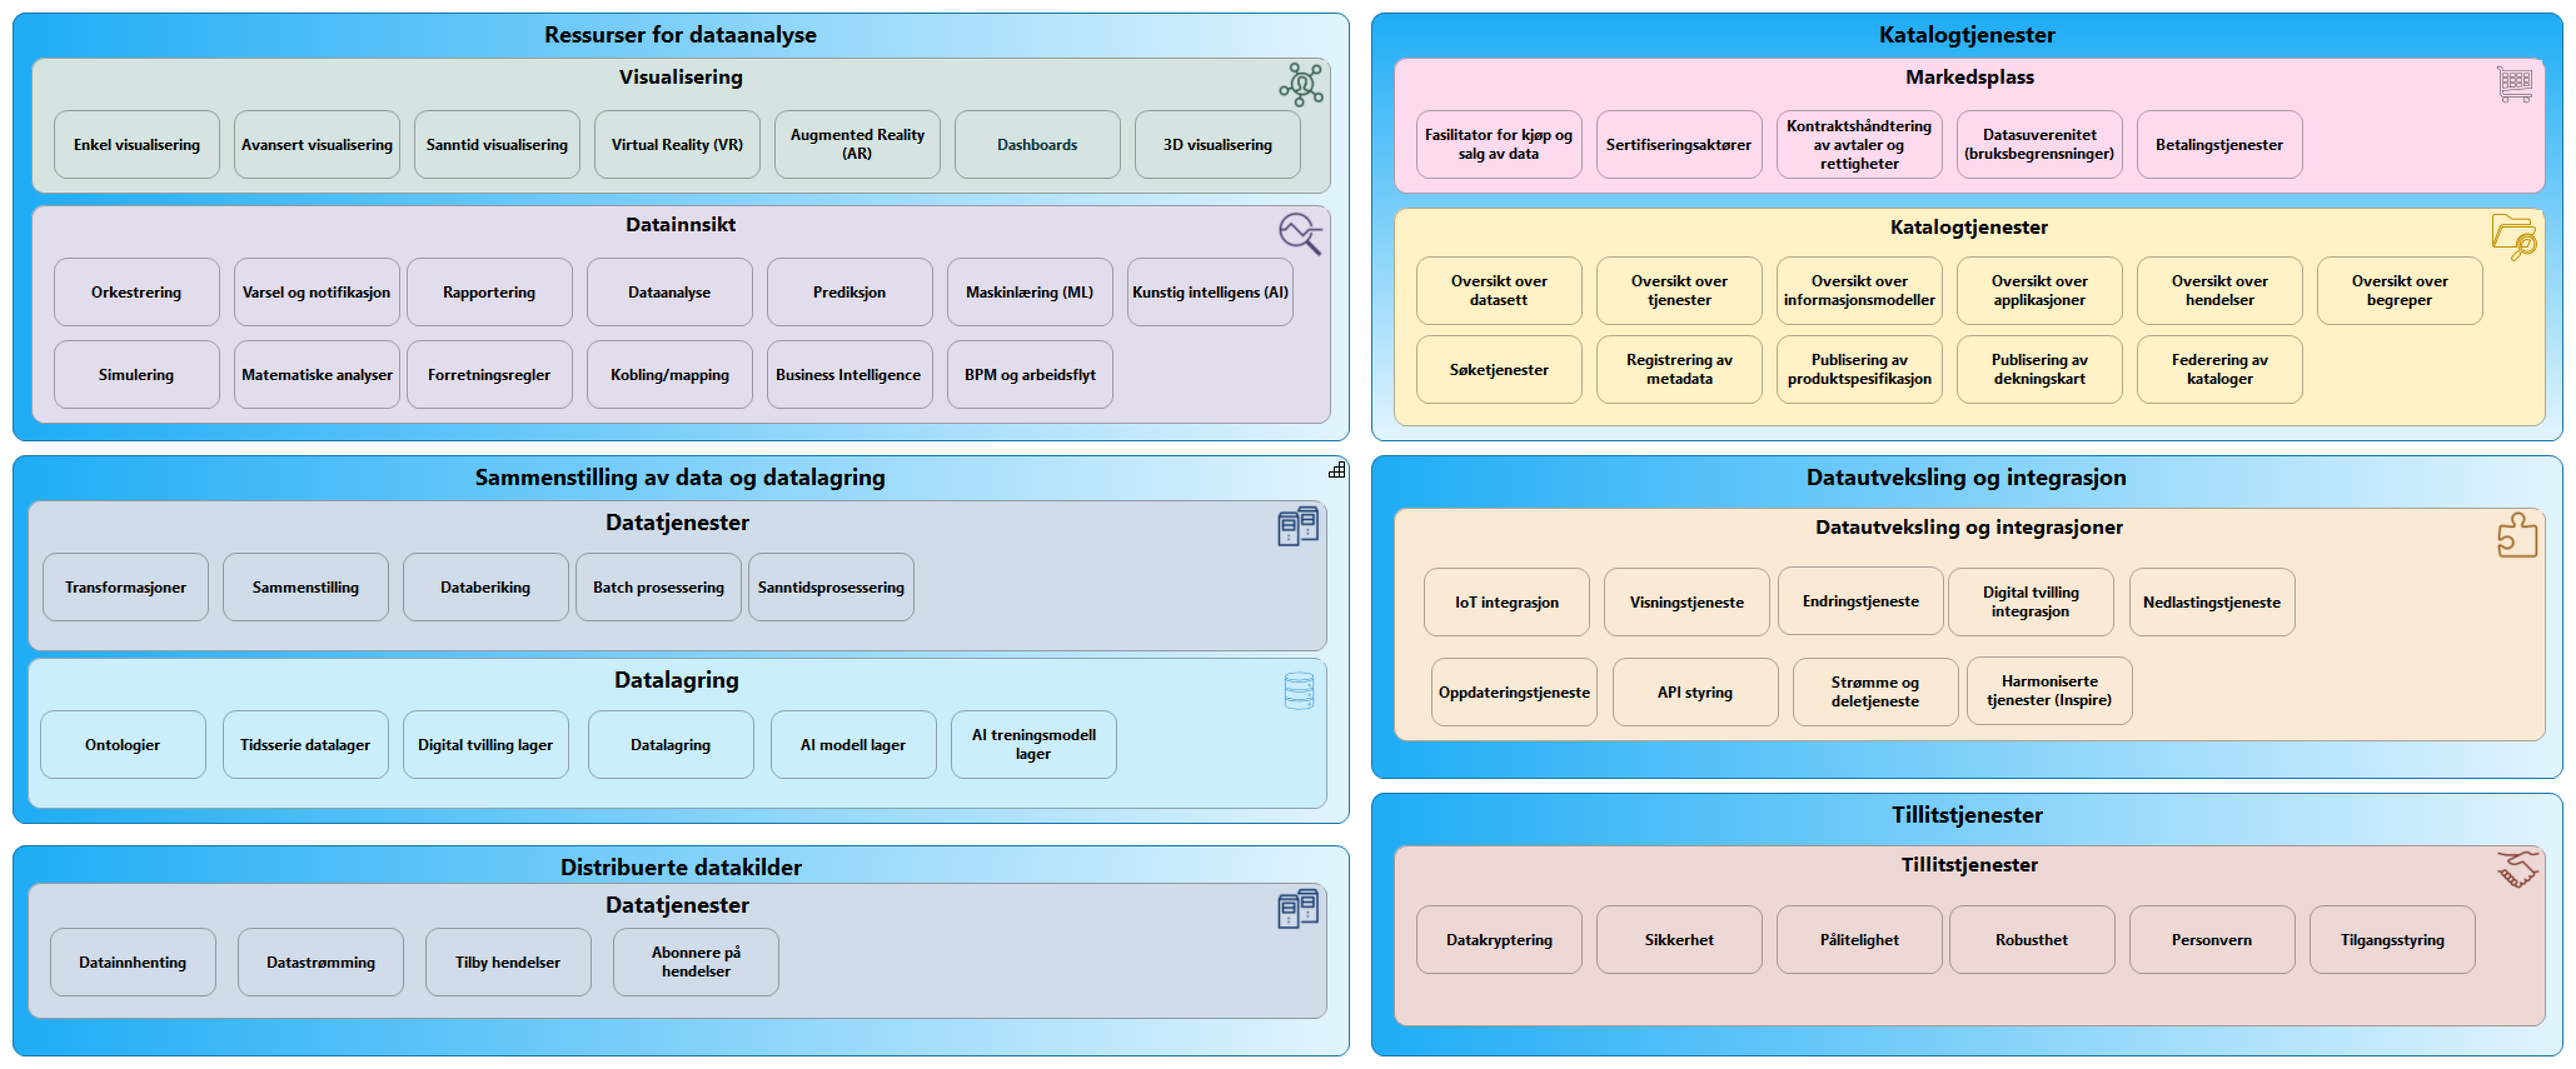
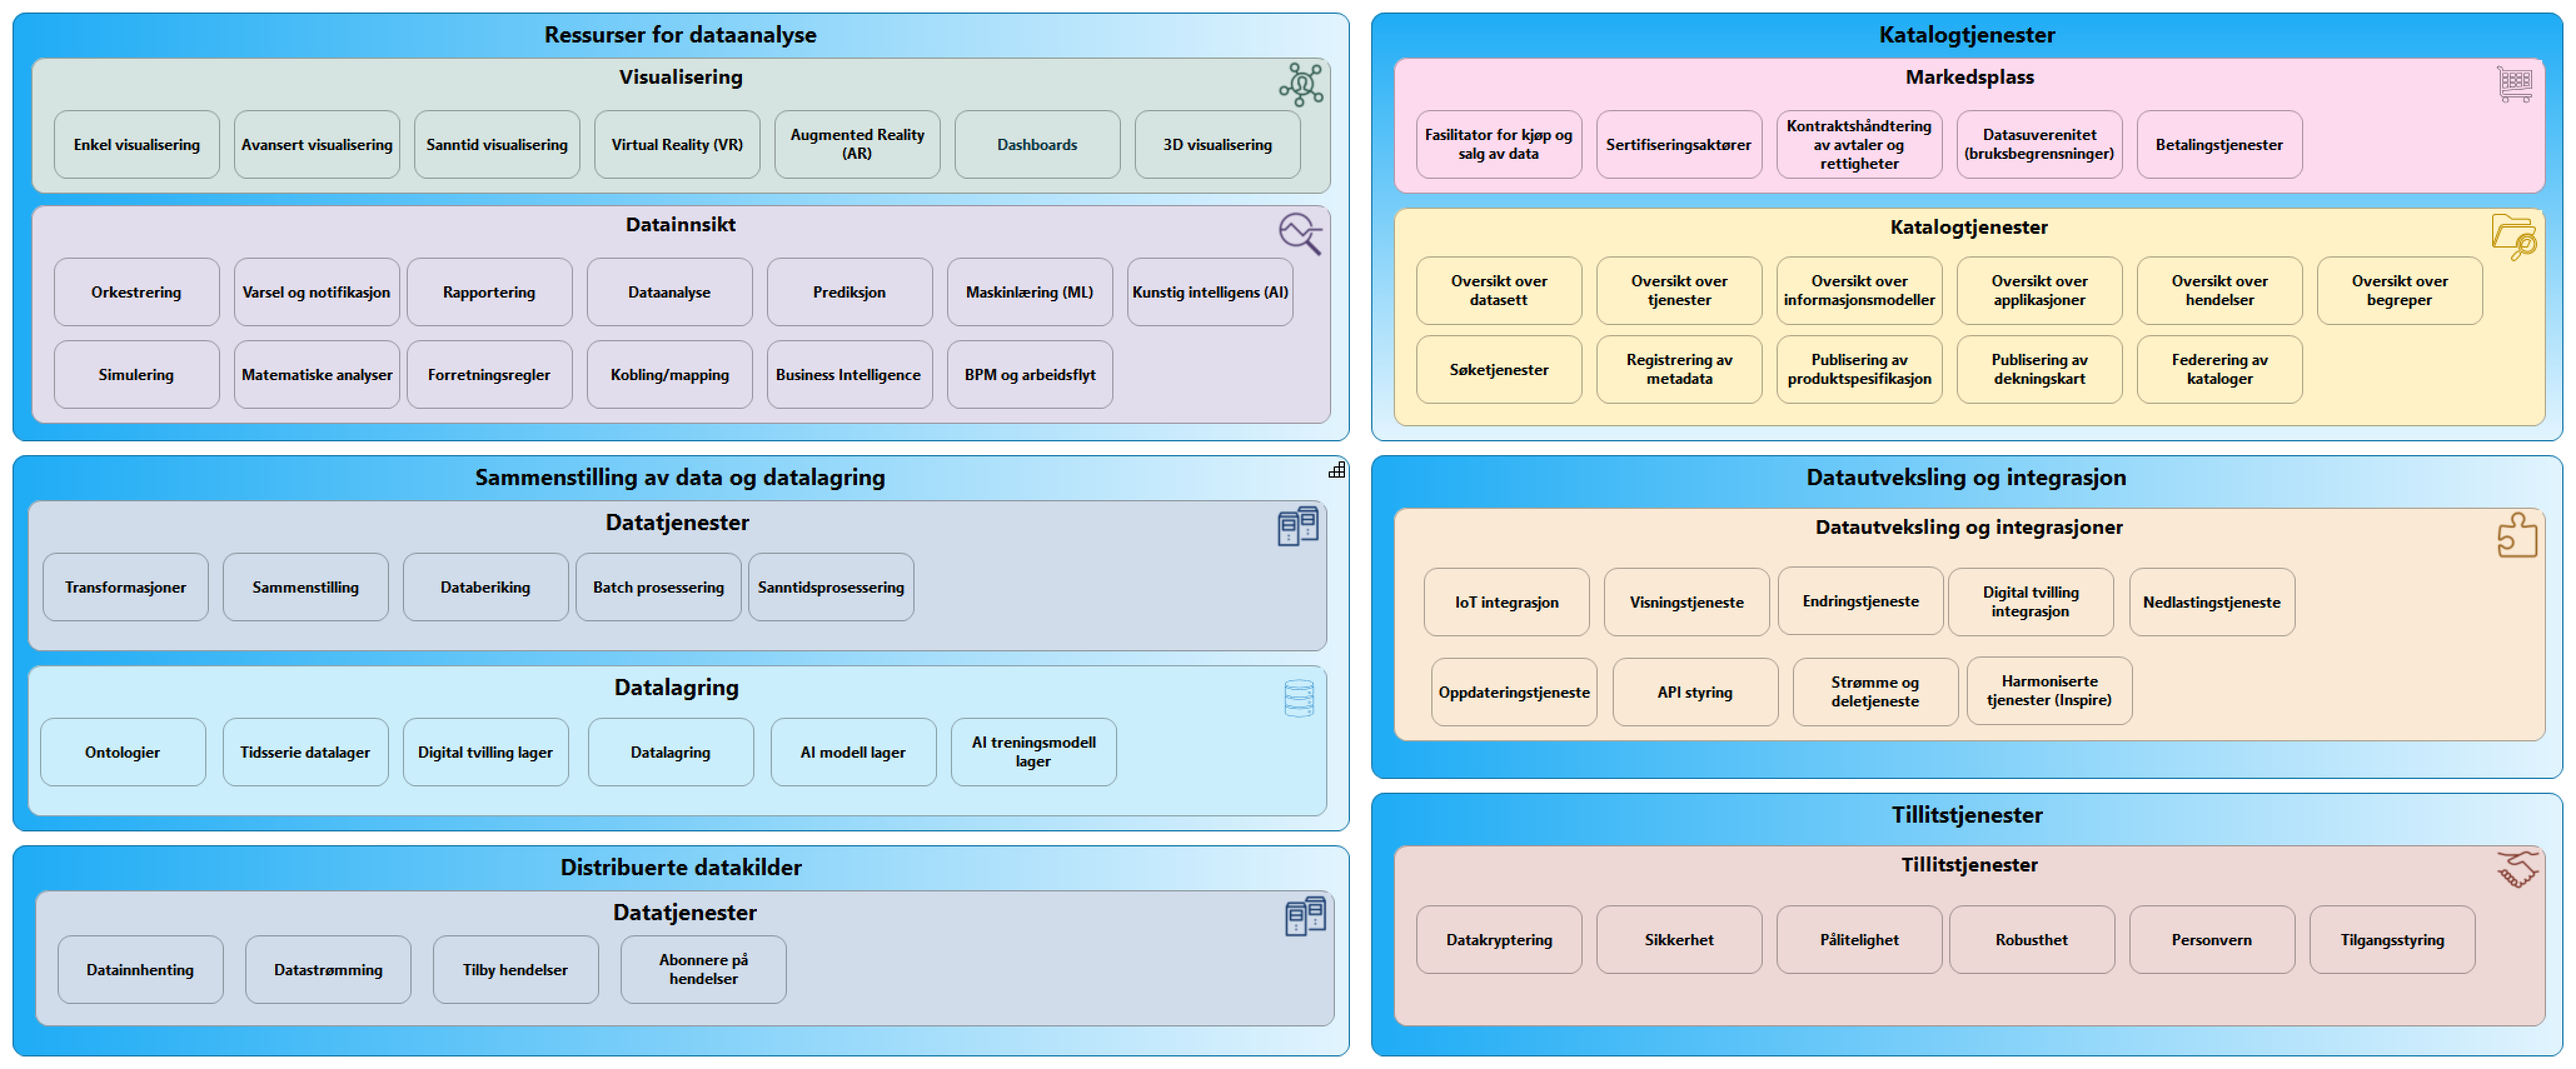
.

diff --git a/EAPK_0466C497_FFCC_4540_BDB5_0480EC965251/views/id-9a661c10ac51480e80a9e35aea7acb41.html b/EAPK_0466C497_FFCC_4540_BDB5_0480EC965251/views/id-9a661c10ac51480e80a9e35aea7acb41.html
@@ -50,16 +50,16 @@
 				  						<area shape="rect" coords="68,884,334,994" href="../elements/id-0d338c7990f14df3aa7bd236996a4c2e.html"  target="element">
 
 				  				<area shape="rect" coords="44,800,2122,1042" href="../elements/id-ddb5fa0ba358482eb0147f5c64387e9c.html"  target="element">
-				  						<area shape="rect" coords="1520,1136,1786,1246" href="../elements/id-9d1db997b6ff4b78808eac4a258477ca.html"  target="element">
-				  						<area shape="rect" coords="356,1136,622,1246" href="../elements/id-62e36a4d6f5d45339f4bad4156297fd9.html"  target="element">
-				  						<area shape="rect" coords="64,1136,330,1246" href="../elements/id-33e1cc3261c0449ba3e3cf739b951fed.html"  target="element">
-				  						<area shape="rect" coords="1232,1136,1498,1246" href="../elements/id-9b4816ea87ed4f3983721a1c51396cb1.html"  target="element">
-				  						<area shape="rect" coords="940,1136,1206,1246" href="../elements/id-71a1da3234c149fdb1ee490e7b343cde.html"  target="element">
-				  						<area shape="rect" coords="644,1136,910,1246" href="../elements/id-01196244f32643a2833a09410d9e08f0.html"  target="element">
+				  						<area shape="rect" coords="1520,1148,1786,1258" href="../elements/id-9d1db997b6ff4b78808eac4a258477ca.html"  target="element">
+				  						<area shape="rect" coords="356,1148,622,1258" href="../elements/id-62e36a4d6f5d45339f4bad4156297fd9.html"  target="element">
+				  						<area shape="rect" coords="64,1148,330,1258" href="../elements/id-33e1cc3261c0449ba3e3cf739b951fed.html"  target="element">
+				  						<area shape="rect" coords="1232,1148,1498,1258" href="../elements/id-9b4816ea87ed4f3983721a1c51396cb1.html"  target="element">
+				  						<area shape="rect" coords="940,1148,1206,1258" href="../elements/id-71a1da3234c149fdb1ee490e7b343cde.html"  target="element">
+				  						<area shape="rect" coords="644,1148,910,1258" href="../elements/id-01196244f32643a2833a09410d9e08f0.html"  target="element">
 
-				  				<area shape="rect" coords="44,1052,2122,1294" href="../elements/EAID_FC2FB1F9_D52A_4072_B45F_AB8239DF95DF.html"  target="element">
+				  				<area shape="rect" coords="44,1064,2122,1306" href="../elements/EAID_FC2FB1F9_D52A_4072_B45F_AB8239DF95DF.html"  target="element">
 
-				  		<area shape="rect" coords="20,728,2158,1318" href="../elements/id-bb4b14f6520d4952b2a8efb7dc94872b.html"  target="element">
+				  		<area shape="rect" coords="20,728,2158,1330" href="../elements/id-bb4b14f6520d4952b2a8efb7dc94872b.html"  target="element">
 				  						<area shape="rect" coords="1514,544,1780,654" href="../elements/id-417cc8683c8641f9822f27a77c5b6827.html"  target="element">
 				  						<area shape="rect" coords="1802,412,2068,522" href="../elements/id-b2ce156d98464be98f302f41ba0d6fcf.html"  target="element">
 				  						<area shape="rect" coords="1514,412,1780,522" href="../elements/id-966b44af81a94418946e972a725e6007.html"  target="element">
@@ -108,12 +108,12 @@
 				  				<area shape="rect" coords="2228,92,4070,310" href="../elements/EAID_79D9F89E_D7A6_4ce5_91ED_496AF8967A05.html"  target="element">
 
 				  		<area shape="rect" coords="2192,20,4098,706" href="../elements/id-4c6bdf1fe9e74bafa8ae7f7e25b8696b.html"  target="element">
-				  						<area shape="rect" coords="980,1484,1246,1594" href="../elements/id-9bbaff9f511d454f9c5f12e47692c559.html"  target="element">
-				  						<area shape="rect" coords="680,1484,946,1594" href="../elements/id-f52a5bc2bf624ee1903d0d9451e32ead.html"  target="element">
-				  						<area shape="rect" coords="380,1484,646,1594" href="../elements/id-a0a7c96dff8041fcafb99c43590d3de4.html"  target="element">
-				  						<area shape="rect" coords="80,1484,346,1594" href="../elements/id-b923c882358c463ebde52bf8b8f3ba0f.html"  target="element">
+				  						<area shape="rect" coords="992,1496,1258,1606" href="../elements/id-9bbaff9f511d454f9c5f12e47692c559.html"  target="element">
+				  						<area shape="rect" coords="692,1496,958,1606" href="../elements/id-f52a5bc2bf624ee1903d0d9451e32ead.html"  target="element">
+				  						<area shape="rect" coords="392,1496,658,1606" href="../elements/id-a0a7c96dff8041fcafb99c43590d3de4.html"  target="element">
+				  						<area shape="rect" coords="92,1496,358,1606" href="../elements/id-b923c882358c463ebde52bf8b8f3ba0f.html"  target="element">
 
-				  				<area shape="rect" coords="44,1412,2122,1630" href="../elements/id-ddb5fa0ba358482eb0147f5c64387e9c.html"  target="element">
+				  				<area shape="rect" coords="56,1424,2134,1642" href="../elements/id-ddb5fa0ba358482eb0147f5c64387e9c.html"  target="element">
 
 				  		<area shape="rect" coords="20,1352,2158,1690" href="../elements/id-f9e0d26598084289be8462daf9828917.html"  target="element">
 				  						<area shape="rect" coords="3144,1050,3410,1160" href="../elements/id-3e4d88c375634d4fba96b32aec4980ec.html"  target="element">
